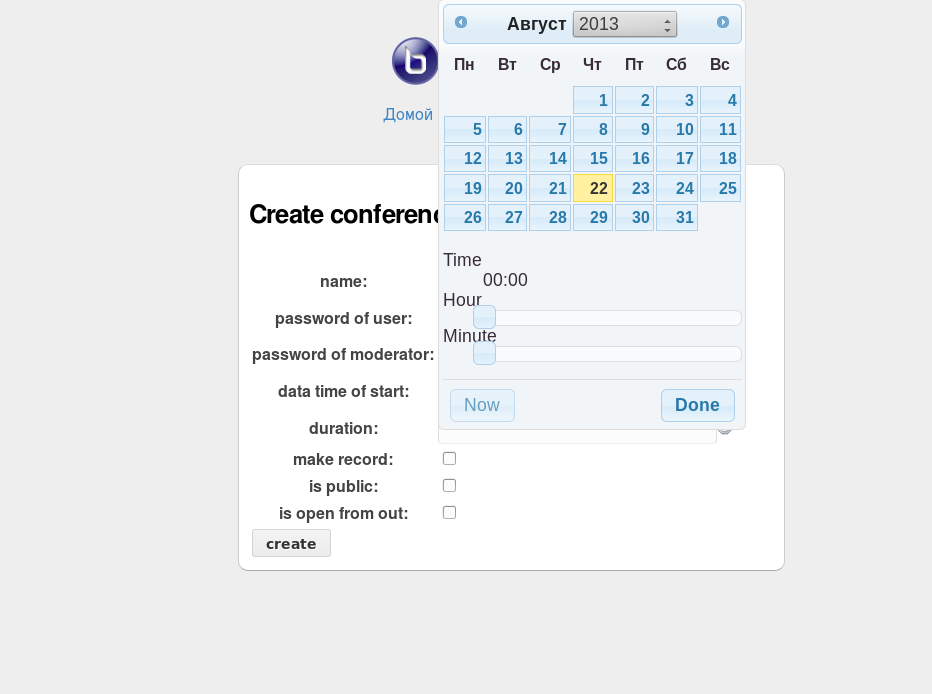
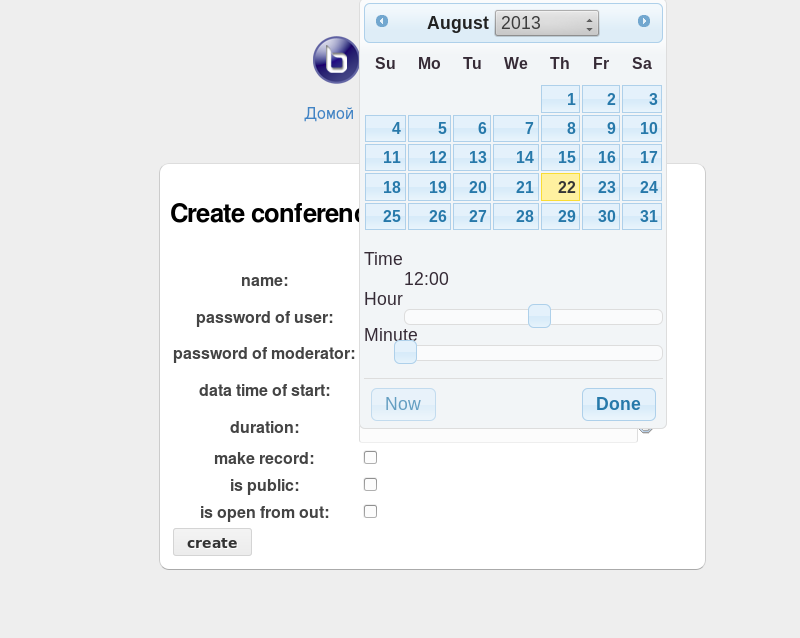
create change language in settings.py for widget datetimepicker, change screenshots

Changed region(s): [[0.1875, 0.0, 0.8438, 0.7445], [0.2188, 0.6552, 0.4375, 0.8934]]

diff --git a/bbb_django/bbb/widgets.py b/bbb_django/bbb/widgets.py
@@ -2,6 +2,8 @@
 from django import forms
 from django.utils.safestring import mark_safe
 
+import settings
+
 main_css= {
             'all': ("/static/css/cupertino/jquery-ui-1.10.3.custom.css",)
         }
@@ -13,7 +15,7 @@ class DateTimePickerWidget(forms.DateInput):
             "/static/js/jquery-1.9.1.js",
             "/static/js/jquery-ui-1.10.3.custom.js",
             "/static/js/jquery-ui-timepicker-addon.js",
-            "/static/js/jquery.ui.datepicker-ru.js",
+            "/static/js/jquery.ui.datepicker-"+settings.LANGUAGE_CODE.split('-')[0]+".js",
         )
  
     def __init__(self, params='', attrs=None, format=None):

diff --git a/readme.rst b/readme.rst
@@ -49,4 +49,6 @@ Screenshots
 
 .. image:: https://github.com/yaricp/django-bigbluebutton/raw/master/screenshots/create_shedule.png
 
+.. image:: https://github.com/yaricp/django-bigbluebutton/raw/master/screenshots/shedule_time.png
+
 .. image:: https://github.com/yaricp/django-bigbluebutton/raw/master/screenshots/manage.png
